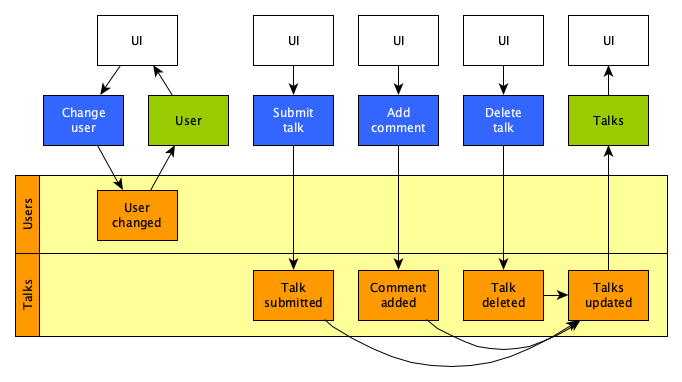
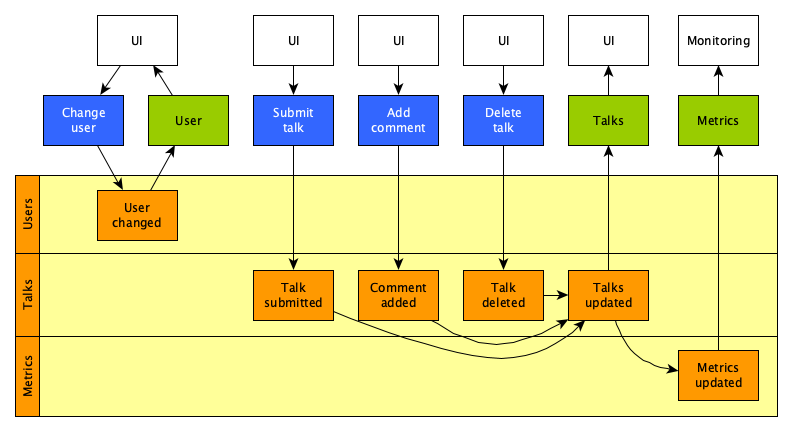
docs: add metrics

diff --git a/doc/README.md b/doc/README.md
@@ -41,6 +41,11 @@
 -   Is a single talk
 -   Is undefined if talk does not exist
 
+### Metrics
+
+-   Count talks.
+-   Count presenters.
+
 ## Users
 
 ![Uses](./users.png)
